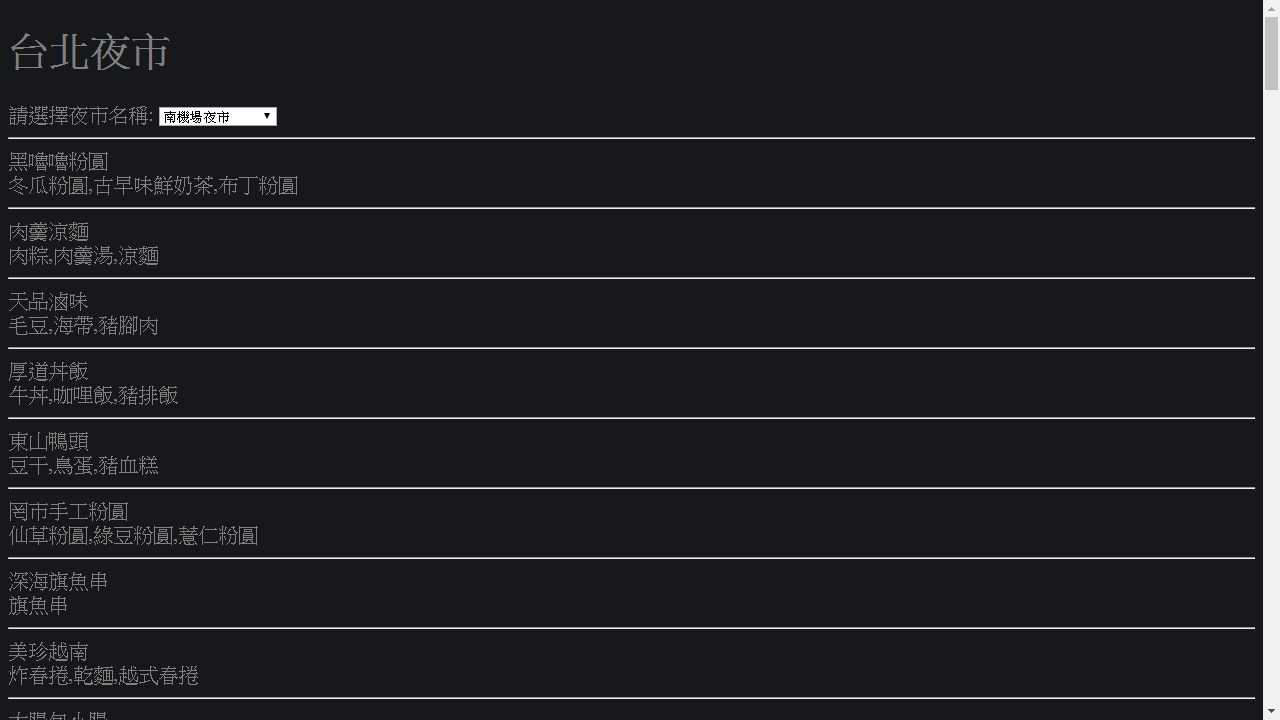
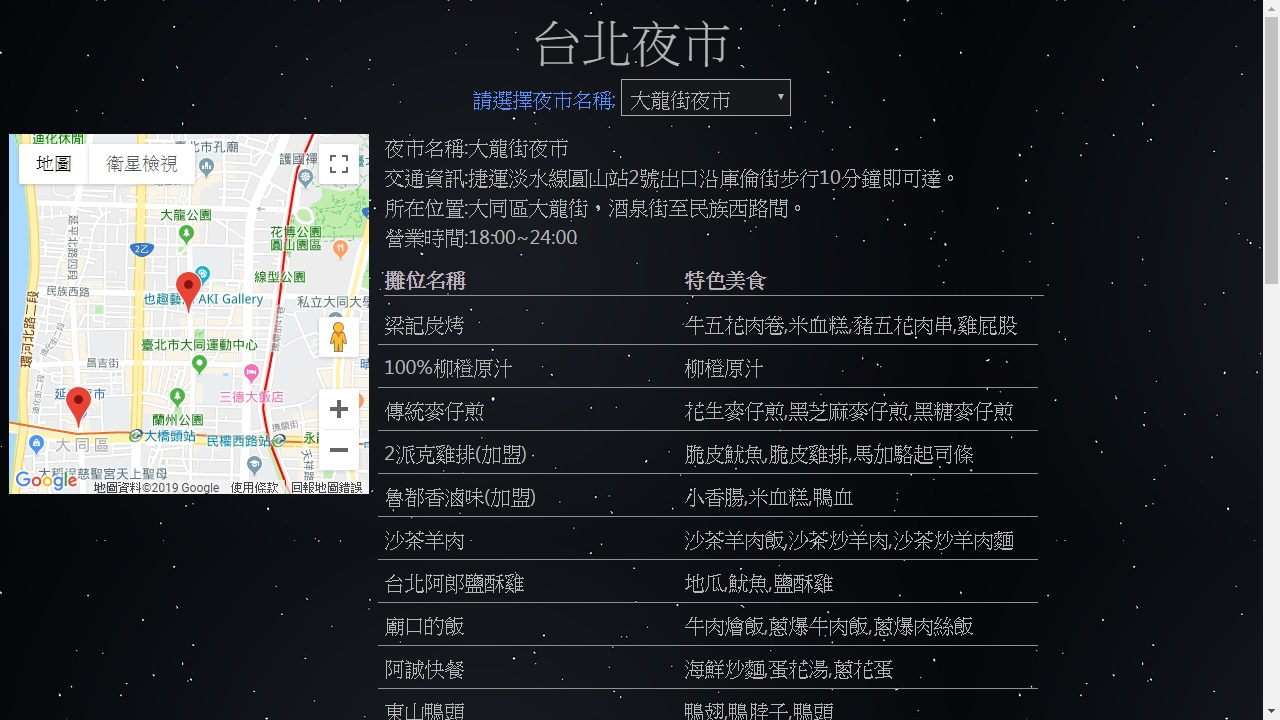
finish TaipeiNightMarket

diff --git a/TaipeiNightMarket.html b/TaipeiNightMarket.html
@@ -30,6 +30,7 @@
         width: 660px;
         height: 33px;
         font-weight: bold;
+        margin: 6px
       }
       select{
         padding: 3px;
@@ -43,14 +44,22 @@
       }
       .food{
         flex:none;
-        width: 600px;
+        width: 360px;
       }
       #map {
         flex: none;
         margin: 9px;
         width: 360px;
         height: 360px; 
+      }
+      @media (max-width:1200px){
+        #map{
+          margin: auto;
         }
+        .list{
+          margin: auto;
+        }
+      }
       .article{
         display: flex;
         flex-wrap: wrap;
@@ -63,14 +72,15 @@
         width: 660px;
       }
       #NightMarket {
+        padding: 6px;
         width: 660px;
       }
       </style>
     <header>
-    <h1>台北夜市查詢</h1>
+    <h1>台北夜市</h1>
     <a id='choice'>請選擇夜市名稱:</a>
       <select  id="mySelect" onchange="information();myFunction()">
-        <option value ="">請選擇</option>
+        <option value ="請選擇">請選擇</option>
         <option value ="大龍街夜市">大龍街夜市</option>
         <option value ="廣州街觀光夜市">廣州街觀光夜市</option>
         <option value="華西街觀光夜市">華西街觀光夜市</option>
@@ -181,12 +191,28 @@
             title: '雙城街夜市'
           },
         ]
-  //跑迴圈依序將值塞入到 marker
-  for(i=0;i<data.length;i++){
-    new google.maps.Marker(data[i]);
-  }
-
-}
+        //跑迴圈依序將值塞入到 marker
+        for(let marker = [], i=0;i<data.length;i++){
+          marker[i] = new google.maps.Marker(data[i]);
+          console.log(marker[i].title)
+          marker[i].addListener('click', function() {
+            map.setZoom(15);
+            map.setCenter(marker[i].getPosition());
+            document.getElementById("mySelect").value = marker[i].title
+            information();
+            myFunction();
+          });
+          document.getElementById("mySelect").addEventListener("change",function(){
+            if(document.getElementById("mySelect").value == marker[i].title){
+              map.setZoom(15);
+              map.setCenter(marker[i].getPosition());
+            }else if(document.getElementById("mySelect").value == "請選擇"){
+              map.setZoom(12);
+              map.setCenter({lat: 25.0477505, lng: 121.5170599})
+            }
+          })
+        }
+      }
   </script>
   <script async defer
     src="https://maps.googleapis.com/maps/api/js?key=AIzaSyDy7niYo3hKVoLoxDPCbZqRZWG_x7jml4k&callback=initMap">
@@ -200,11 +226,8 @@
             dataType: 'json',
           })
           .done(function(info) {
-            var x = document.getElementById("mySelect").selectedIndex;
-            var y = document.getElementById("mySelect").options;
-            console.log(info);
             for(i=0;i<15;i++){
-              if(y[x].value == info[i].夜市名稱){
+              if(info[i].夜市名稱 == document.getElementById("mySelect").value){
                 if(info[i].交通資訊 != null){
                   $('#NightMarket').append("夜市名稱:"+ info[i].夜市名稱 +"<br/>"+"</div>"+"<div>" + "交通資訊:" +info[i].交通資訊+"<br/>" +"所在位置:"+ info[i].所在位置+"<br/>"+ "營業時間:"+ info[i].營業時間);
                 }else{
@@ -216,17 +239,13 @@
         }
         
         function myFunction(){
-          
           $.ajax({
             url: 'https://data.taipei/api/getDatasetInfo/downloadResource?id=8a569b5b-0cb1-4c7f-a064-780b3301354c&rid=da4a214f-0c3d-437e-9312-34e5671db2a8',
             dataType: 'json',
           })
           .done(function(msg) {
-            var x = document.getElementById("mySelect").selectedIndex;
-            var y = document.getElementById("mySelect").options;
-              
             for(i=0;i<965;i++){
-              if(y[x].value == msg[i].夜市名稱){
+              if(msg[i].夜市名稱 == document.getElementById("mySelect").value){
               $('#listContent').append("<div class='listEach'>"+"<div class='name'>"+ msg[i].攤位名稱+"</div>"+"<div class='food'>"+ msg[i].其他相關產品 + "</div>"+ "</div>");
               } 
             }
